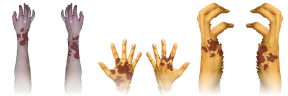
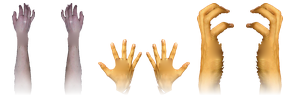
Auto-sync: 2026-11-28 08:41:41 +0800

diff --git a/ramblegamble/ramblegamble.js b/ramblegamble/ramblegamble.js
@@ -28,7 +28,7 @@ import { cameraTravelDuration, isSpookyView, suspenseEase, crowdCloseupPose } fr
 import { CHARACTER_SOURCE_SIZE, CHARACTER_YAW_LIMIT, characterYaw, standingCharacterPose, projectCharacterQuad, pointInCharacterQuad } from "./character-billboards.mjs?v=stage-dance-20261127-v1";
 import { createScoreHud } from "./show-ui-fx.mjs?v=show-energy-20261127-v1";
 import { createFocusOrbit, orbitPosition, bindFocusDrag, focusLimits } from "./focus-orbit.mjs?v=settlement-hover-20261127-v1";
-import { createExteriorHands, sampleExteriorAmbience } from "./exterior-hands.mjs?v=clean-depth-hands-20261128-v1";
+import { createExteriorHands, sampleExteriorAmbience } from "./exterior-hands.mjs?v=clean-hands-asset-20261128-v2";
 import { createExteriorMist, EXTERIOR_FLOOR } from "./exterior-mist.mjs?v=crowd-mist-20261127-v1";
 import { fitSlotInteractionFrame, fitSlotColumnArrow, rouletteRecessCenter, ROULETTE_RECESS, fitCharacterCloseup } from "./arcade-framing.mjs?v=slot-closeup-20261128-v1";
 import { foley } from "./game-foley.mjs?v=sky-soot-20261127-v1";

diff --git a/rg/console/index.html b/rg/console/index.html
@@ -10,7 +10,7 @@
     <link rel="stylesheet" href="/rg/console/console.css?v=show-energy-20261127-v1">
     <link rel="stylesheet" href="/ramblegamble/trivia-live.css?v=match-number-20261127-v1">
     <link rel="stylesheet" href="/ramblegamble/host-access.css?v=host-toggle-20261126-v1">
-    <script type="module" src="/ramblegamble/host-access.mjs?v=points-stinger-20261128-v1"></script>
+    <script type="module" src="/ramblegamble/host-access.mjs?v=clean-hands-asset-20261128-v2"></script>
   </head>
   <body>
     <main class="terminal" aria-label="Ramble Gamble host console">

diff --git a/rg/index.html b/rg/index.html
@@ -25,7 +25,7 @@
       }
     </script>
     <link rel="stylesheet" href="/ramblegamble/host-access.css?v=host-toggle-20261126-v1">
-    <script type="module" src="/ramblegamble/host-access.mjs?v=points-stinger-20261128-v1"></script>
+    <script type="module" src="/ramblegamble/host-access.mjs?v=clean-hands-asset-20261128-v2"></script>
       <link rel="stylesheet" href="/ramblegamble/show-energy.css?v=compact-score-20261127-v1">
   </head>
   <body class="ramble-page" data-theme="p2">

diff --git a/ramblegamble/assets/exterior-hands/install-hands.py b/ramblegamble/assets/exterior-hands/install-hands.py
@@ -1,5 +1,5 @@
 #!/usr/bin/env python3
-"""Download licensed photographs and a CC0 blood decal; prepare a pixelated atlas.
+"""Download licensed photographs; prepare a clean pixelated atlas.
 
 Offline build step only. Requires Pillow. No generated hand anatomy, no AI art,
 no remote fetch at game runtime. The output is CC BY-SA 3.0 (see SOURCES.md).
@@ -18,7 +18,6 @@ SOURCES = (
     ('5@BackForward.jpg', 'https://upload.wikimedia.org/wikipedia/commons/e/eb/5%40BackForward.jpg', '273e012a5b280b0bdd931427361c0e58b4449d56', (1000,1000), 61, 'red'),
     ('Claw5@UlnarForward.jpg', 'https://upload.wikimedia.org/wikipedia/commons/5/58/Claw5%40UlnarForward.jpg', '94996404e47f9c33bdc7a51b5c79e9a08b4af1ae', (1000,1000), 90, 'red'),
 )
-BLOOD = ('blood_splatter_0.png', 'https://opengameart.org/sites/default/files/blood_splatter_0.png')
 MAX_BYTES = 4*1024*1024
 TILE = (48,96)
 
@@ -87,57 +86,21 @@ def cutout(photo, angle, key):
     return tile
 
 
-def blood_mask(folder):
-    data=read_asset(*BLOOD,folder)
-    with Image.open(BytesIO(data)) as im:
-        if im.format!='PNG' or im.size!=(512,512):
-            raise ValueError('Unexpected blood decal format/dimensions')
-        im=im.convert('RGBA')
-    alpha=im.getchannel('A')
-    if alpha.getextrema()[0]<240:
-        mask=alpha
-    else:
-        gray=ImageOps.grayscale(im); bg=gray.getpixel((0,0))
-        mask=ImageChops.difference(gray,Image.new('L',gray.size,bg))
-        mask=ImageOps.autocontrast(mask)
-    box=mask.getbbox()
-    if not box:raise ValueError('Empty source blood decal')
-    return mask.crop(box)
-
-
-def stain(tile, decal, index):
+def finish(tile, index):
     if index%2: tile=ImageOps.mirror(tile)
-    tile=tile.copy();a=tile.getchannel('A')
-    # Reposition and rotate the real sourced decal, never paint arbitrary blood.
-    mask=Image.new('L',TILE);spot=decal.copy()
-    spot.thumbnail((25+index%3*4,31+index%2*8),Image.Resampling.LANCZOS)
-    spot=spot.rotate(19+index*37,Image.Resampling.BICUBIC,expand=True)
-    # Anchor on an actual opaque skin pixel, including shorter hand poses.
-    left,top,right,bottom=a.getbbox()
-    cx=(left+right)/2;cy=top+(bottom-top)*(.36+.12*(index%3))
-    candidates=[(x,y) for y in range(top,min(bottom,76)) for x in range(left,right) if a.getpixel((x,y))>180]
-    if not candidates:raise ValueError('No visible skin pixels for source decal')
-    x,y=min(candidates,key=lambda q:(q[0]-cx)**2+(q[1]-cy)**2)
-    sx,sy=spot.size;peak=spot.getextrema()[1]
-    if not peak:raise ValueError('Source decal became empty')
-    # Align the strongest source decal pixel with skin to ensure contact.
-    anchor=min(((u,v) for v in range(sy) for u in range(sx) if spot.getpixel((u,v))>=peak*.85),key=lambda q:(q[0]-sx/2)**2+(q[1]-sy/2)**2)
-    mask.paste(spot,(x-anchor[0],y-anchor[1]))
-    mask=ImageChops.multiply(mask,a).point(lambda x:round(x*.68))
-    rgb=Image.composite(Image.new('RGB',TILE,(92,17,29)),tile.convert('RGB'),mask)
-    # Feather only the submerged wrist, leaving the real hand silhouette crisp.
+    tile=tile.copy()
+    # Feather only the submerged wrist; do not add any stain or decal.
     fade=Image.new('L',TILE);fade.putdata([round(255*min(1,max(0,(95-y)/25))) for y in range(96) for _ in range(48)])
-    rgb.putalpha(ImageChops.multiply(a,fade))
-    return rgb
+    tile.putalpha(ImageChops.multiply(tile.getchannel('A'),fade))
+    return tile
 
 
-def build(folder=None,dest=ROOT/'hands-atlas.png'):
-    decal=blood_mask(folder)
+def build(folder=None,dest=ROOT/'hands-clean-v2.png'):
     atlas=Image.new('RGBA',(TILE[0]*6,TILE[1]))
     for i,source in enumerate(SOURCES):
         tile=source_photo(source,folder)
         for j in range(2):
-            index=i*2+j; edited=stain(tile,decal,index)
+            index=i*2+j; edited=finish(tile,index)
             if not edited.getchannel('A').getbbox():raise ValueError('Empty atlas tile')
             atlas.paste(edited,(index*TILE[0],0))
     tmp=dest.with_suffix('.tmp.png');atlas.save(tmp,optimize=True);tmp.replace(dest)

diff --git a/ramblegamble/assets/exterior-hands/test_install_hands.py b/ramblegamble/assets/exterior-hands/test_install_hands.py
@@ -4,7 +4,7 @@ import importlib.util
 import tempfile
 import unittest
 from pathlib import Path
-from PIL import Image, ImageDraw, ImageChops
+from PIL import Image, ImageDraw
 
 spec=importlib.util.spec_from_file_location('installer',Path(__file__).with_name('install-hands.py'))
 installer=importlib.util.module_from_spec(spec);spec.loader.exec_module(installer)
@@ -15,13 +15,12 @@ class InstallerTests(unittest.TestCase):
         draw=ImageDraw.Draw(photo);draw.rectangle((32,8,67,179),fill=(205,156,120));draw.rectangle((1,1,4,4),fill=(205,156,120))
         return photo
 
-    def test_keys_crop_and_stain(self):
-        decal=Image.new('L',(30,30));ImageDraw.Draw(decal).ellipse((2,2,28,28),fill=255)
+    def test_keys_crop_and_clean_finish(self):
         for key in ('red','blue'):
             t=installer.cutout(self.fixture(key),0,key);a=t.getchannel('A');self.assertEqual(t.size,(48,96));self.assertGreater(a.getbbox()[0],0);self.assertEqual(a.getpixel((0,0)),0)
             for i in range(6):
-                s=installer.stain(t,decal,i);self.assertEqual(s.getchannel('A').getextrema(),(0,255));self.assertEqual(s.getchannel('A').getpixel((24,95)),0)
-                self.assertEqual(s.tobytes(),installer.stain(t,decal,i).tobytes());self.assertTrue(any(r>2*g and g<75 and a>0 for r,g,b,a in s.getdata()))
+                s=installer.finish(t,i);self.assertEqual(s.getchannel('A').getextrema(),(0,255));self.assertEqual(s.getchannel('A').getpixel((24,95)),0)
+                self.assertEqual(s.tobytes(),installer.finish(t,i).tobytes());self.assertEqual(s.convert('RGB').tobytes(),(t.transpose(Image.Transpose.FLIP_LEFT_RIGHT) if i%2 else t).convert('RGB').tobytes())
 
     def test_source_hash_and_dimensions(self):
         with tempfile.TemporaryDirectory() as d:
@@ -36,7 +35,6 @@ class InstallerTests(unittest.TestCase):
             p=Path(d);sources=[]
             for i,key in enumerate(('blue','red','red')):
                 f=p/f'{i}.jpg';self.fixture(key).save(f);sources.append((f.name,'unused',hashlib.sha1(f.read_bytes()).hexdigest(),(100,180),0,key))
-            decal=Image.new('RGBA',(512,512));ImageDraw.Draw(decal).ellipse((110,110,400,400),fill=(130,0,0,255));decal.save(p/installer.BLOOD[0])
             with patch.object(installer,'SOURCES',sources):installer.build(p,p/'atlas.png')
             with Image.open(p/'atlas.png') as im:
                 self.assertEqual(im.size,(288,96));self.assertEqual(im.mode,'RGBA');self.assertTrue(all(im.crop((i*48,0,(i+1)*48,96)).getchannel('A').getbbox() for i in range(6)))

diff --git a/ramblegamble/assets/exterior-hands/SOURCES.md b/ramblegamble/assets/exterior-hands/SOURCES.md
@@ -1,10 +1,16 @@
 # Exterior fog hands — sourced photographic art
 
-The renderer expects `hands-atlas.png` (288×96 RGBA, six horizontal 48×96 tiles).
-The archive does **not** contain this atlas: this build environment could browse
-source pages but could not download the original image files. No synthetic hand
-art or remote runtime fallback is supplied. The scene fails closed if the atlas
-is absent; the other changes work independently.
+The renderer expects `hands-clean-v2.png` (288×96 RGBA, six horizontal 48×96 tiles).
+The distinct filename prevents stale cached bloody `hands-atlas.png` from being
+loaded by the current renderer. A cleaned compatibility copy is also supplied at
+`hands-atlas.png` for older modules; fresh installer runs target the new filename.
+Deploy both PNGs and the updated module/HTML chain together.
+The archive includes a cleaned atlas. The existing mirrored photographic tiles
+were combined and overlapping stain regions locally interpolated to remove the
+baked-in decal, retaining the original silhouettes and wrist alpha exactly.
+Original photos could not be retrieved in the patch environment. For a fresh
+build directly from the licensed photos, run the installer below; it no longer
+uses any blood decal. No remote runtime fallback is supplied.
 
 From the project root, on a machine with Internet access:
 
@@ -13,22 +19,19 @@ python3 -m pip install Pillow
 python3 ramblegamble/assets/exterior-hands/install-hands.py
 ```
 
-Alternatively download the four originals below and use
+Alternatively download the three originals below and use
 `python3 ramblegamble/assets/exterior-hands/install-hands.py --source-dir /path/to/downloads`.
 Use the filenames shown below. The three photographs are SHA-1 checked against
-Wikimedia Commons metadata; the CC0 decal is checked for PNG format and size.
+Wikimedia Commons metadata.
 The installer performs background keying, source rotation, cropping,
-low-resolution resampling, decal compositing, mirroring and wrist alpha fading.
-Inspect the resulting atlas before deployment; extraction quality on the actual
-files could not be visually tested in this environment. Deploy the generated PNG
-along with the patch. Do not publish the originals unless needed.
+low-resolution resampling, mirroring and wrist alpha fading.
+Inspect any regenerated atlas before deployment. The included cleaned atlas has been visually inspected. Do not publish the originals unless needed.
 
 | Original | Author / license | Direct file |
 |---|---|---|
 | [Forearm.jpg](https://commons.wikimedia.org/wiki/File:Forearm.jpg) | Mikael Häggström, public domain dedication | [Original](https://upload.wikimedia.org/wikipedia/commons/3/32/Forearm.jpg) |
 | [5@BackForward.jpg](https://commons.wikimedia.org/wiki/File:5@BackForward.jpg) | Mario Carneiro (Di gama), [CC BY-SA 3.0](https://creativecommons.org/licenses/by-sa/3.0/) | [Original](https://upload.wikimedia.org/wikipedia/commons/e/eb/5%40BackForward.jpg) |
 | [Claw5@UlnarForward.jpg](https://commons.wikimedia.org/wiki/File:Claw5@UlnarForward.jpg) | Mario Carneiro (Di gama), [CC BY-SA 3.0](https://creativecommons.org/licenses/by-sa/3.0/) | [Original](https://upload.wikimedia.org/wikipedia/commons/5/58/Claw5%40UlnarForward.jpg) |
-| [Liquid Splatter Pixel Texture](https://opengameart.org/content/liquid-splatter-pixel-texture) | AlejandroHaibi, [CC0](https://creativecommons.org/publicdomain/zero/1.0/) | [blood_splatter_0.png](https://opengameart.org/sites/default/files/blood_splatter_0.png) |
 
 The edited atlas is distributed under [CC BY-SA 3.0](https://creativecommons.org/licenses/by-sa/3.0/).
 Preserve this attribution alongside the atlas. The images are used as fictional
